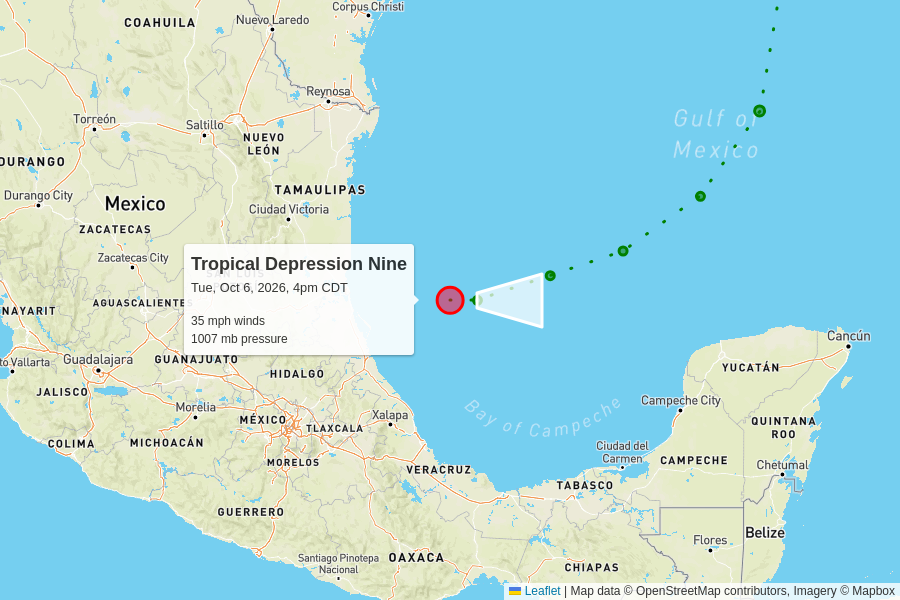
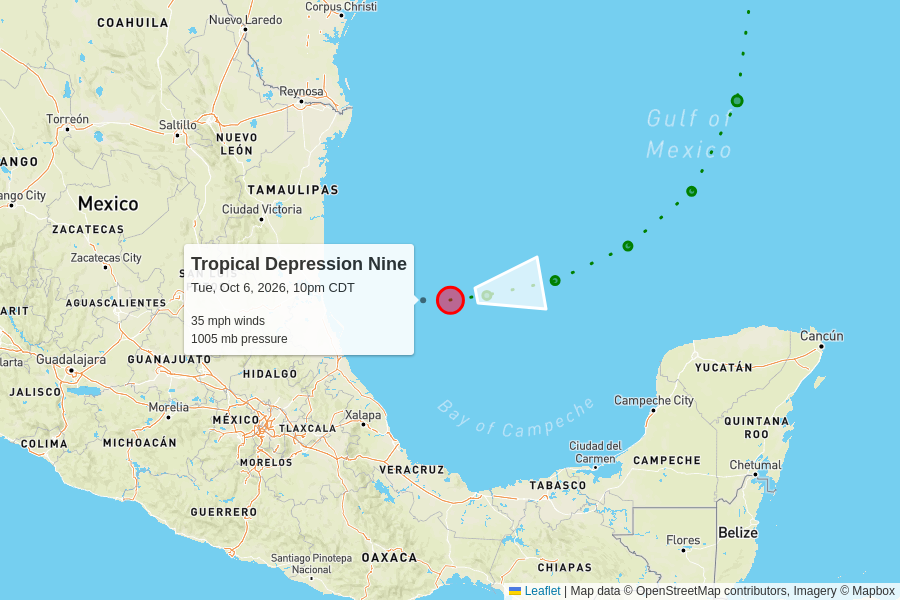
automatic update

diff --git a/docs/2026.html b/docs/2026.html
@@ -45,13 +45,13 @@
       <grid-container>
           <grid-row>
             <script type="text/json" id="storm_data_AL092026">
-              {"pressure":[{"timestamp":"2026-10-06T21:00:00.000Z","value":1007}],"wind":[{"timestamp":"2026-10-06T21:00:00.000Z","value":35}]}
+              {"pressure":[{"timestamp":"2026-10-06T21:00:00.000Z","value":1007},{"timestamp":"2026-10-07T03:00:00.000Z","value":1005}],"wind":[{"timestamp":"2026-10-06T21:00:00.000Z","value":35},{"timestamp":"2026-10-07T03:00:00.000Z","value":35}]}
             </script>              <grid-container class="storm">
                 <grid-row onClick="toggle('storm_AL092026')">
                   <h2>
                     Tropical Depression Nine
                     <div class="updated">
-                      last updated <time datetime="2026-10-06T21:00:00.000Z">2026-10-06T21:00:00.000Z</time>
+                      last updated <time datetime="2026-10-07T03:00:00.000Z">2026-10-07T03:00:00.000Z</time>
                     </div>
                   </h2>
                 </grid-row>
@@ -69,17 +69,17 @@
                         <td>
                           35 mph
                           <br>
-                          
+                          0 mph since last update
                         </td>
                         <td>
-                          1007 mb
+                          1005 mb
                           <br>
-                          
+                          -2 mb since last update
                         </td>
                         <td>
                           5 mph to the east
                           <br>
-                          <span style="display: inline-block; font-size: 1.5em; transform: rotate(90deg);">↑</span>
+                          <span style="display: inline-block; font-size: 1.5em; transform: rotate(80deg);">↑</span>
                         </td>
                         <td>
                           <a href="https://raw.githubusercontent.com/mgwalker/atlantic-hurricanes/main/data/csv/AL092026.csv">AL092026.csv</a>

diff --git a/docs/index.html b/docs/index.html
@@ -45,13 +45,13 @@
       <grid-container>
           <grid-row>
             <script type="text/json" id="storm_data_AL092026">
-              {"pressure":[{"timestamp":"2026-10-06T21:00:00.000Z","value":1007}],"wind":[{"timestamp":"2026-10-06T21:00:00.000Z","value":35}]}
+              {"pressure":[{"timestamp":"2026-10-06T21:00:00.000Z","value":1007},{"timestamp":"2026-10-07T03:00:00.000Z","value":1005}],"wind":[{"timestamp":"2026-10-06T21:00:00.000Z","value":35},{"timestamp":"2026-10-07T03:00:00.000Z","value":35}]}
             </script>              <grid-container class="storm">
                 <grid-row onClick="toggle('storm_AL092026')">
                   <h2>
                     Tropical Depression Nine
                     <div class="updated">
-                      last updated <time datetime="2026-10-06T21:00:00.000Z">2026-10-06T21:00:00.000Z</time>
+                      last updated <time datetime="2026-10-07T03:00:00.000Z">2026-10-07T03:00:00.000Z</time>
                     </div>
                   </h2>
                 </grid-row>
@@ -69,17 +69,17 @@
                         <td>
                           35 mph
                           <br>
-                          
+                          0 mph since last update
                         </td>
                         <td>
-                          1007 mb
+                          1005 mb
                           <br>
-                          
+                          -2 mb since last update
                         </td>
                         <td>
                           5 mph to the east
                           <br>
-                          <span style="display: inline-block; font-size: 1.5em; transform: rotate(90deg);">↑</span>
+                          <span style="display: inline-block; font-size: 1.5em; transform: rotate(80deg);">↑</span>
                         </td>
                         <td>
                           <a href="https://raw.githubusercontent.com/mgwalker/atlantic-hurricanes/main/data/csv/AL092026.csv">AL092026.csv</a>
